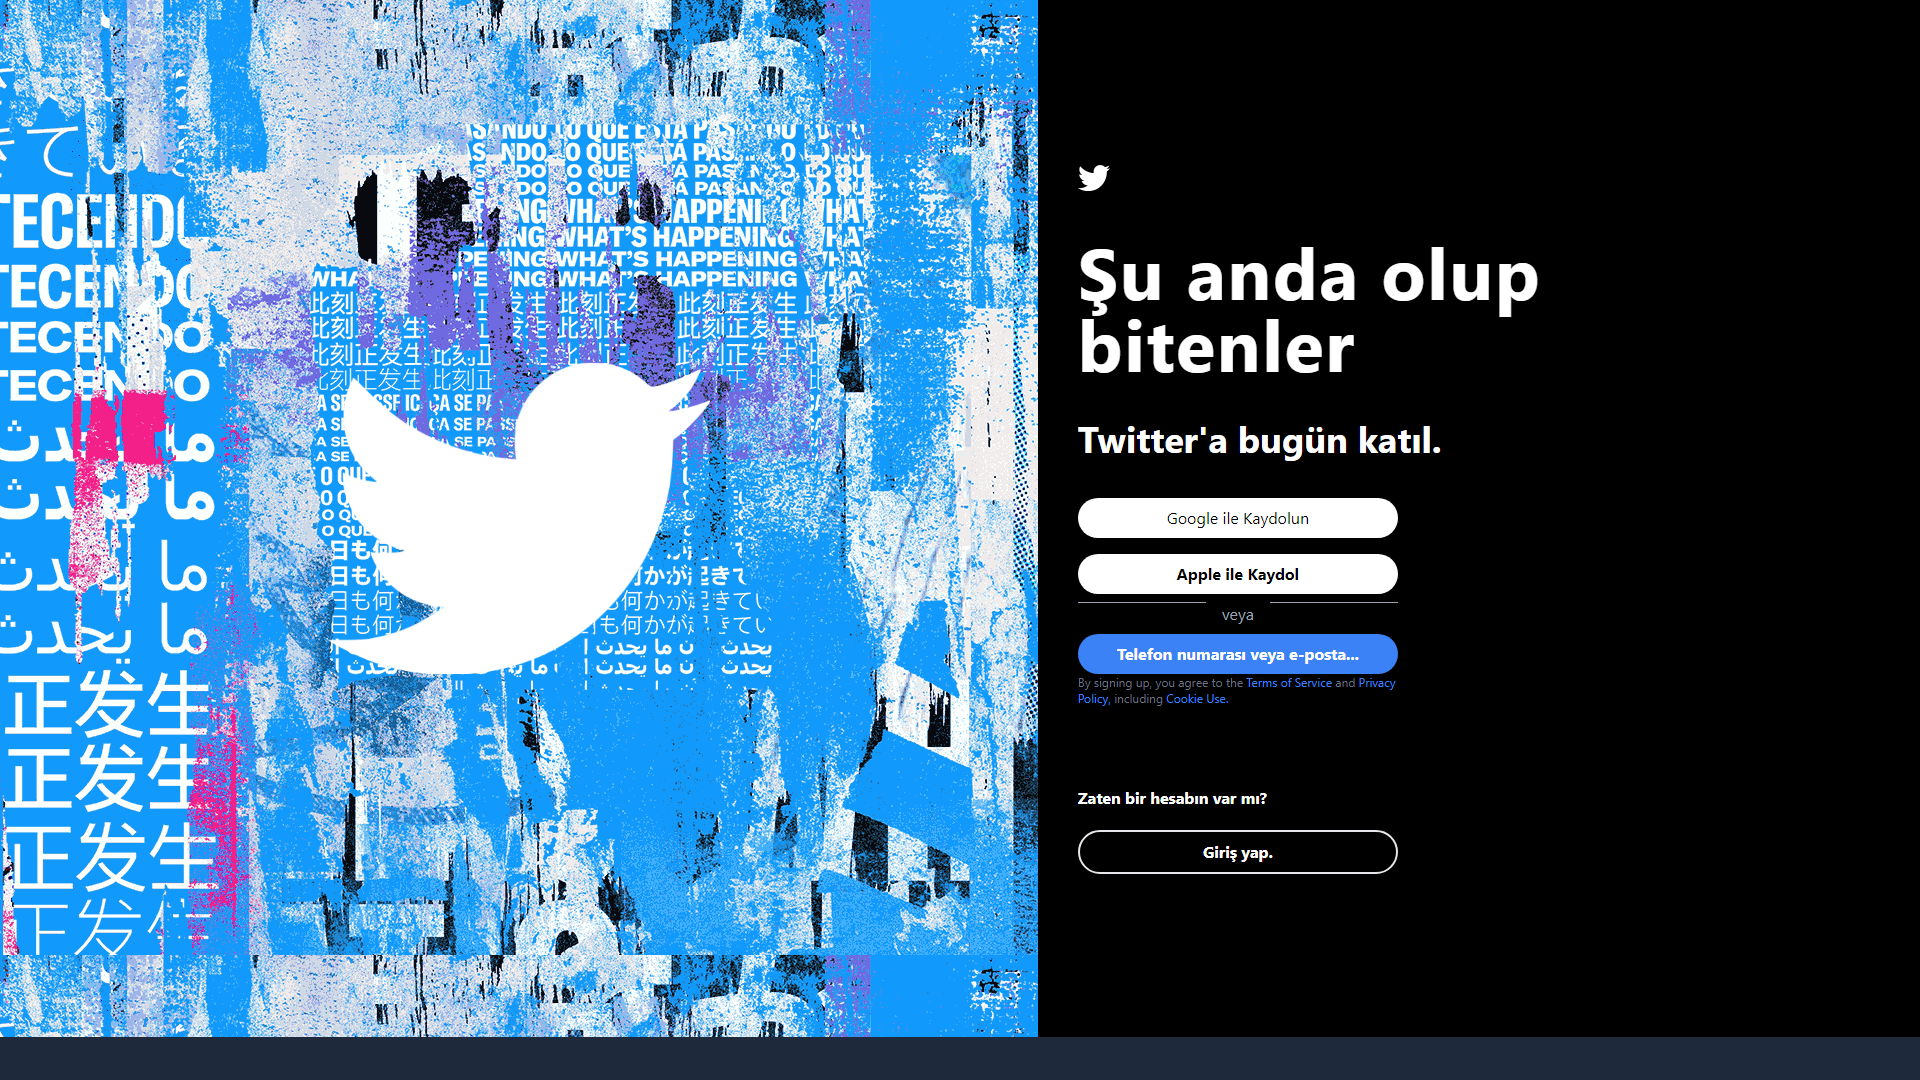
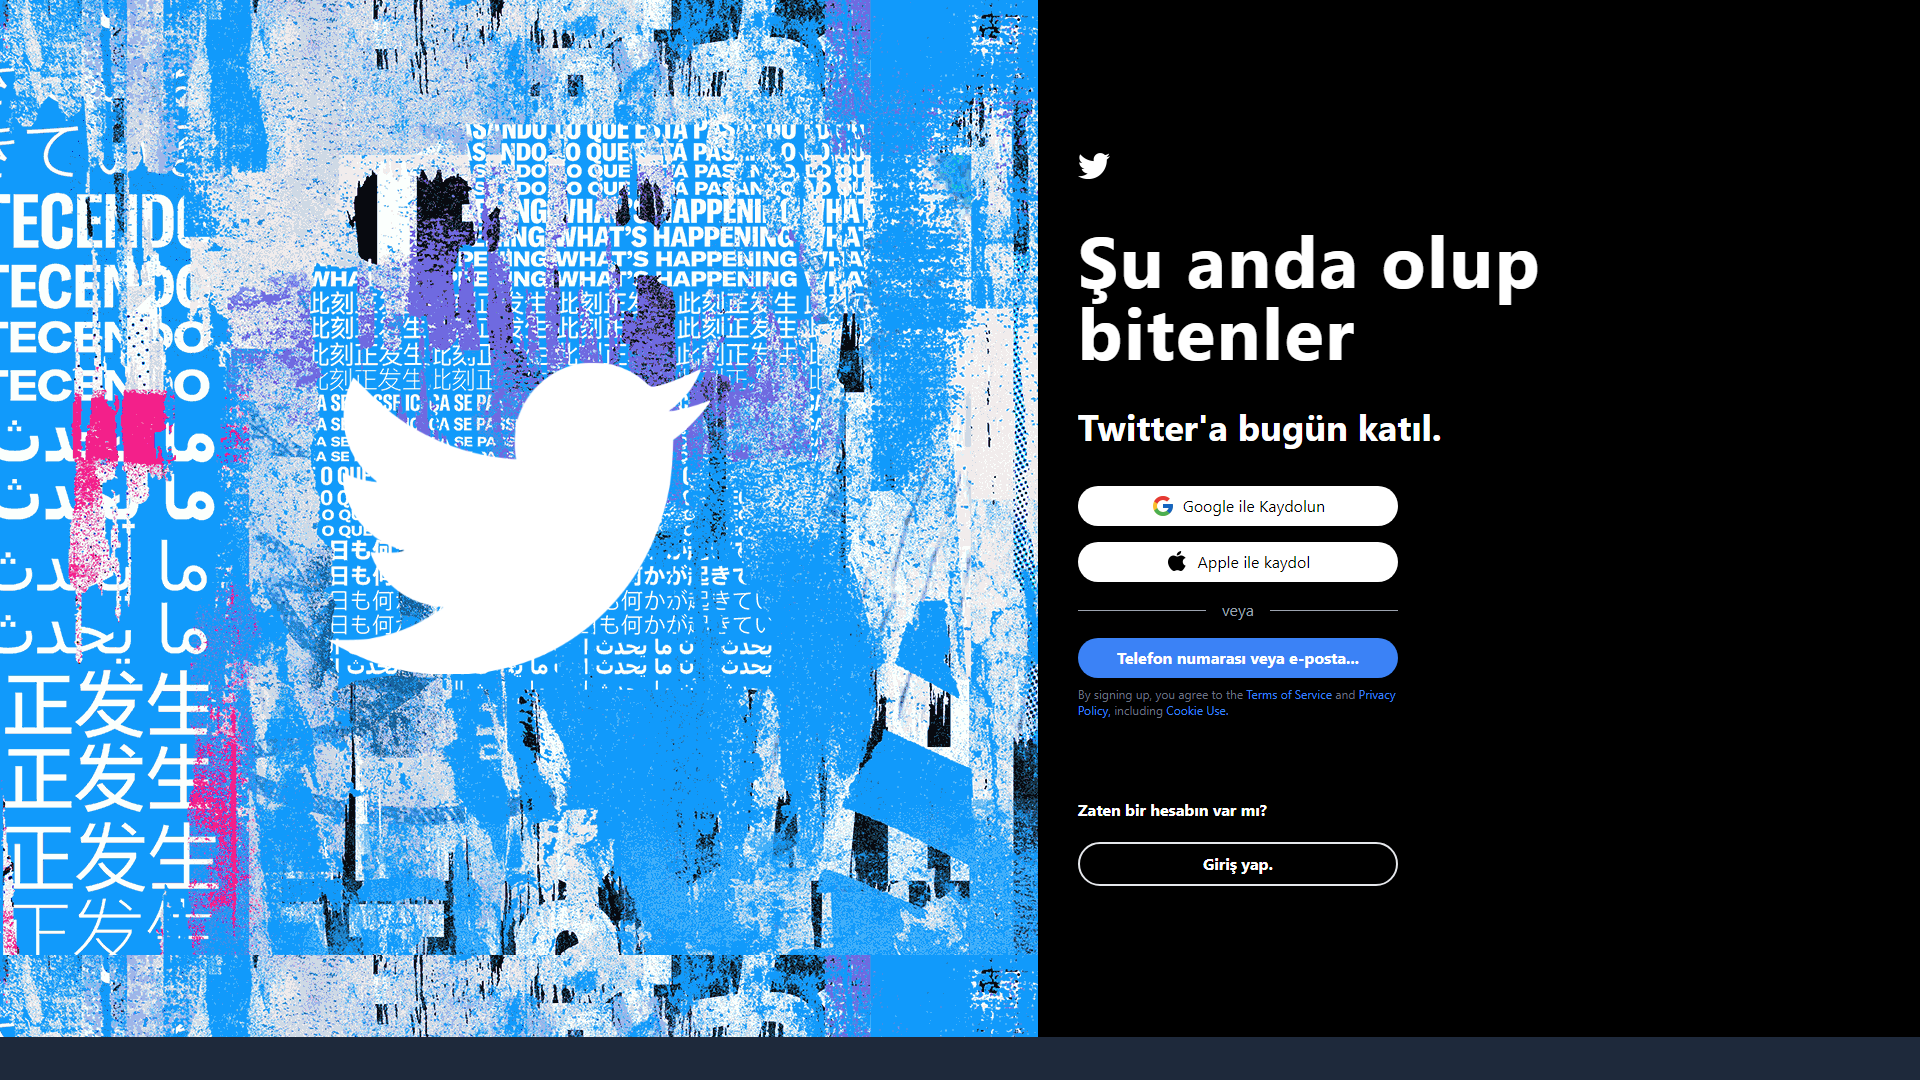
Login buttons ui improved

Changed region(s): [[0.5625, 0.2139, 0.8125, 0.6722], [0.5625, 0.7333, 0.7188, 0.825], [0.5625, 0.1222, 0.5938, 0.1833]]

diff --git a/Frontend/src/views/Login.tsx b/Frontend/src/views/Login.tsx
@@ -30,18 +30,20 @@ function Login() {
             </p>
             <p className="text-4xl mb-5 font-bold">Twitter'a bugün katıl.</p>
             <div className="w-[20rem]  flex flex-col">
-              <button className="bg-white text-black rounded-full py-2 mb-4 mt-5">
-                Google ile Kaydolun
+              <button className="bg-white text-black rounded-full py-2 mb-4 mt-5 flex flex-row items-center justify-center">
+                <img src="assets/google_logo.png" alt="" className="w-6 h-6 mr-2"/>
+                <span>Google ile Kaydolun</span>
               </button>
-              <button className="bg-white text-black font-bold rounded-full py-2">
-                Apple ile Kaydol
+              <button className="bg-white text-black rounded-full py-2 mb-2 flex flex-row items-center justify-center">
+                <img src="assets/apple_logo.png" alt="" className="w-6 h-6 mr-2"/>
+                <span>Apple ile kaydol</span>
               </button>
-              <div className="relative flex py-2 ite ms-center">
-                <div className="flex-grow border-t border-gray-400"></div>
+              <div className="relative flex py-2 ite mb-2 ms-center">
+                <div className="flex-grow border-t mt-3 border-gray-400"></div>
                 <span className="flex-shrink mx-4 text-gray-400">veya</span>
-                <div className="flex-grow border-t border-gray-400"></div>
+                <div className="flex-grow border-t mt-3 border-gray-400"></div>
               </div>
-              <button className="bg-blue-500 font-bold rounded-full py-2">
+              <button className="bg-blue-500 font-bold rounded-full py-2 mb-2">
                 Telefon numarası veya e-posta...
               </button>
               <div className="text-xs  text-gray-500">
